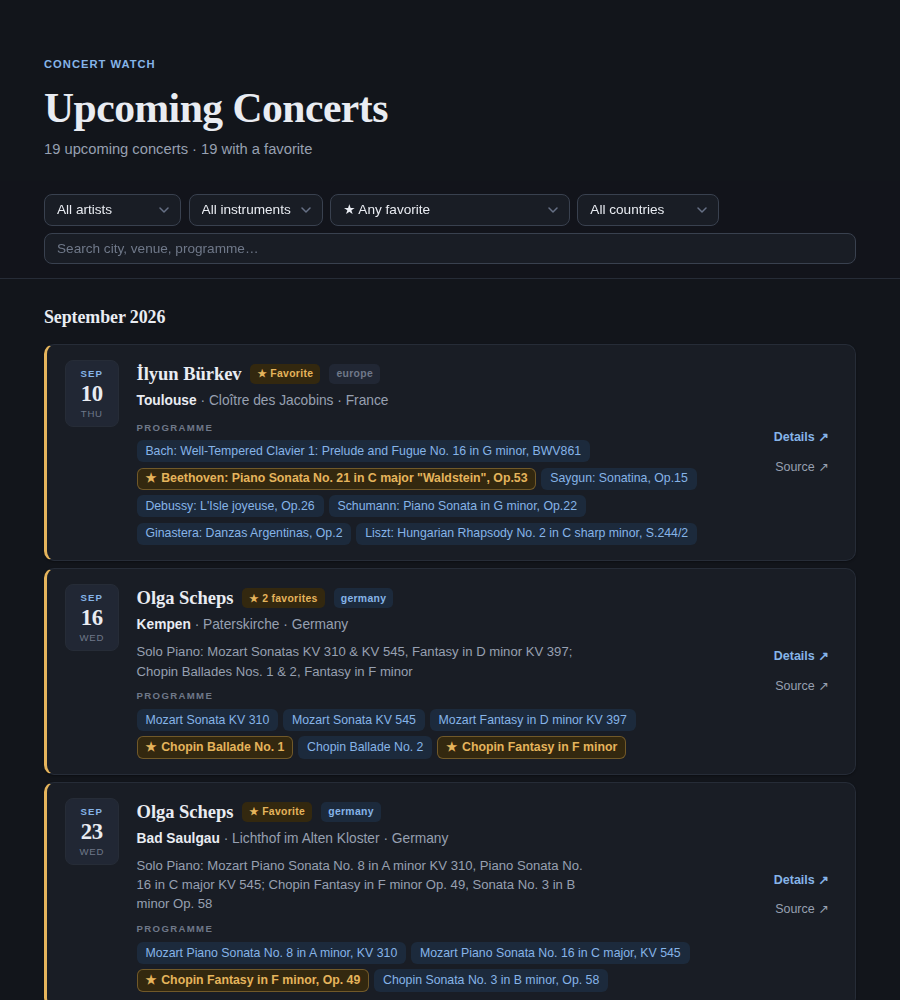
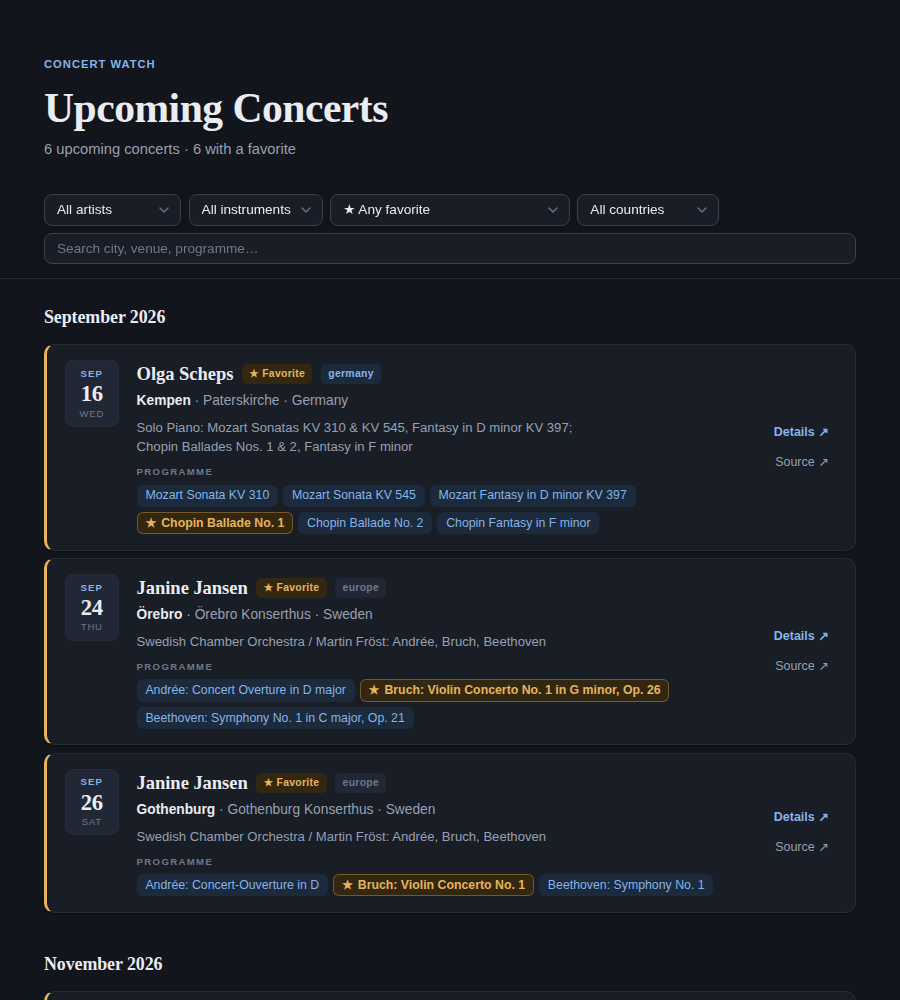
Replace the seeded favorites with the real list, researched per work
Fourteen works, each stored with the phrasings a listing actually prints
rather than one canonical title. What the research changed:

- Mendelssohn's E minor is matched on the key and Op. 64, never on a number.
  He wrote two violin concertos, and sources number the E minor either way
  depending on whether they count the early D minor — seen.json carries a row
  reading "Violin Concerto No. 1 in E minor" and another reading "Violin
  Concerto in D minor". A number-based pattern would have flagged the wrong one.
- Beethoven's violin concerto needs the key or the opus in the pattern:
  ["beethoven", "violin", "concerto"] also matches his Triple Concerto for
  Violin, Cello and Piano, which is a real row.
- An opus number identifies a work only within a composer. seen.json has both
  Beethoven's Op. 61 and Saint-Saëns' Violin Concerto No. 3, Op. 61.
- Terms match as tokens, not as a phrase, so ["piano", "concerto"] also catches
  "Concerto for Piano and Orchestra" and "Concerto per pianoforte". Paired with
  [composer, "op NN"] for listings in French, Italian or Spanish — the opus
  survives translation where the work's name does not.
- Debussy's Arabesque is L. 66 / CD 74 with no opus; Liszt's Liebestraum is
  S. 541; Schubert's Ständchen is D 957 No. 4, usually reaching a piano recital
  through Liszt's transcription S. 560, so the patterns cover both billings.

Checked against 53 phrasings — German, French and Italian forms of each work,
[…]

diff --git a/CLAUDE.md b/CLAUDE.md
@@ -190,6 +190,25 @@ matches `Op. 23`. Include the composer in a pattern unless an opus number
 already makes the work unambiguous — `["ballade", "op 23"]` is safe,
 `["ballade", "no 1"]` would catch Brahms.
 
+**Writing a pattern that doesn't over-match.** An opus number identifies a work
+only within a composer: `seen.json` carries both Beethoven's Op. 61 and
+Saint-Saëns' Violin Concerto No. 3, Op. 61. So before trusting a pattern, read
+it against the composer's *other* works — the ones that share its words:
+
+- A work-type pair is not enough on its own. `["beethoven", "violin",
+  "concerto"]` also matches "Triple Concerto for Violin, Cello and Piano", which
+  is a real row. Add the key or the opus: `["beethoven", "violin", "concerto",
+  "d major"]`.
+- A number is only a discriminator where sources agree on it. Mendelssohn wrote
+  two violin concertos, and listings call the E minor either "No. 1" or "No. 2"
+  depending on whether they count the early D minor — so that favorite is
+  matched on the key and Op. 64, never on a number, and the D minor stays out.
+- Terms are matched as tokens, not as a phrase, so `["piano", "concerto"]` also
+  catches "Concerto for Piano and Orchestra" and "Concerto per pianoforte"
+  where the bigram `"piano concerto"` would not. Prefer the separate tokens,
+  and lean on `[composer, "op NN"]` for listings in French, Italian or Spanish:
+  the opus survives translation where the work's name doesn't.
+
 Matching is deliberately literal, and knows nothing about the repertoire. It
 cannot decide that `"Beethoven Op. 61"` is the violin concerto, because that is
 knowledge from outside the fetched page — exactly what the rest of this file
